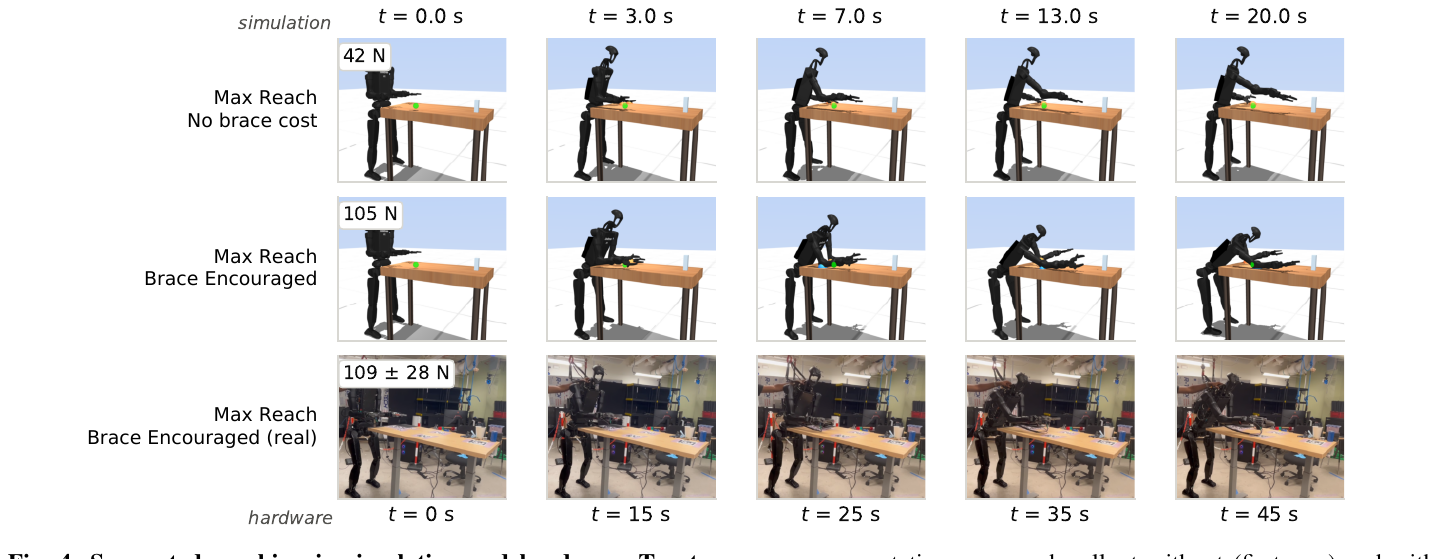
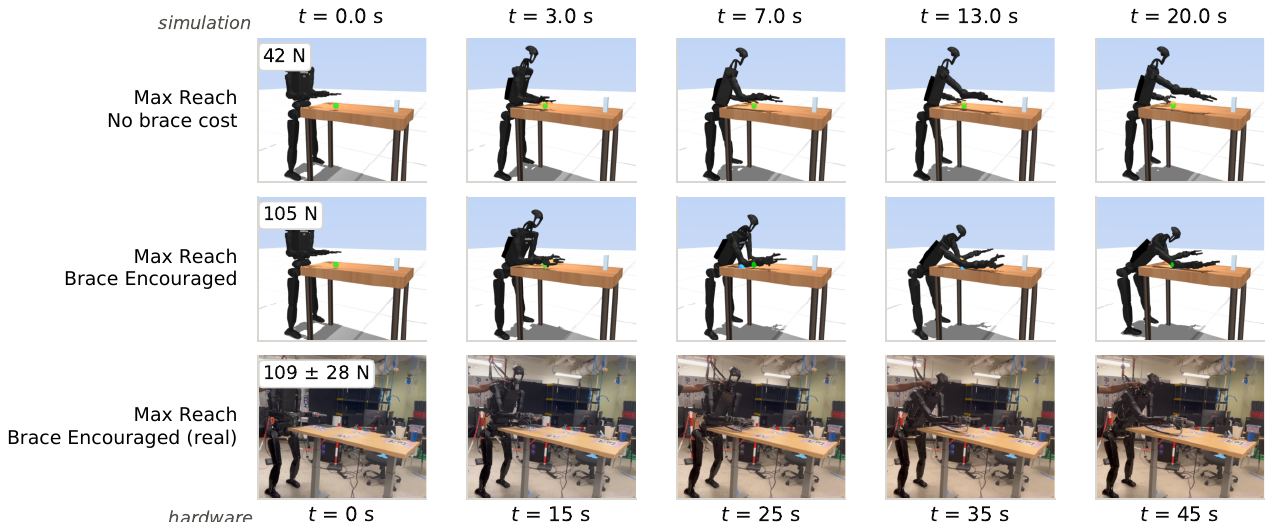
Clean strip crop; captions outside cards; drop accent bars and em dashes

diff --git a/index.html b/index.html
@@ -18,11 +18,11 @@
     <p class="eyebrow mono">Anonymous Authors &middot; Under double-blind review</p>
     <h1>Leaning Over to Reach<br>Far&#8209;Away Objects</h1>
     <p class="subtitle">Whole-body supported reaching on a humanoid: lean on the table, reach past the
-    standing workspace, push back up &mdash; with the bracing contact discovered by the controller,
+    standing workspace, push back up, with the bracing contact discovered by the controller,
     not scripted.</p>
     <nav class="links">
       <a class="btn" href="paper.pdf"><span class="btn-ico">&#9660;</span> Paper (PDF)</a>
-      <span class="btn btn-soon" title="Code released upon publication">&lt;/&gt; Code &mdash; coming soon</span>
+      <span class="btn btn-soon" title="Code released upon publication">&lt;/&gt; Code (coming soon)</span>
     </nav>
   </div>
 
@@ -34,7 +34,7 @@
         <source src="assets/lean_reach.mp4" type="video/mp4">
       </video> -->
       <img src="assets/teaser.png" alt="Unitree H1-2 humanoid leaning onto a table with its forearm while reaching across it, shown in five stages">
-      <figcaption class="mono">The Unitree H1-2 holds the braced 1&nbsp;m reach (frame&nbsp;3) &mdash; 20&nbsp;cm past its standing workspace &mdash; for over four minutes. One autonomous hardware trial, t&nbsp;=&nbsp;0&#8202;&ndash;&#8202;30&nbsp;s.</figcaption>
+      <figcaption class="mono">The Unitree H1-2 holds the braced 1&nbsp;m reach (frame&nbsp;3), 20&nbsp;cm past its standing workspace, for over four minutes. One autonomous hardware trial, t&nbsp;=&nbsp;0&#8202;&ndash;&#8202;30&nbsp;s.</figcaption>
     </figure>
   </div>
 </header>
@@ -73,7 +73,7 @@
   <em>brace objective</em> biases the optimizer toward seating the forearm on the table, but the
   realized contact mode, timing, and loading are outcomes of the rolled-out dynamics. Even with the
   brace objective removed entirely, the planner discovers light upper-body support on its own
-  (19&ndash;39&nbsp;N through the gripper) &mdash; the objective converts that tendency into a
+  (19&ndash;39&nbsp;N through the gripper). The objective converts that tendency into a
   repeatable, flat, heavily loaded forearm contact that survives real-world physics.</p>
 
   <figure class="wide">
@@ -86,8 +86,8 @@
 <section class="col">
   <h2>Measured, not just demonstrated</h2>
   <p class="serif">Across targeted-reach and max-reach tasks we measure functional reach, support
-  margin, trajectory smoothness (SPARC), high-frequency hand jitter, and bracing-arm contact force
-  &mdash; in simulation with and without the brace objective, and on hardware. Simulation and
+  margin, trajectory smoothness (SPARC), high-frequency hand jitter, and bracing-arm contact force,
+  in simulation with and without the brace objective, and on hardware. Simulation and
   hardware agree closely on the quantities that matter for stability: bracing roughly doubles the
   support margin at comparable reach (16.1&nbsp;&plusmn;&nbsp;1.1&nbsp;cm on hardware), and hardware
   brace loads (108&ndash;109&nbsp;N) sit near the top of the simulated braced range.</p>
@@ -105,7 +105,7 @@
     <div>
       <p class="serif">We command the gripper tip to a fixed Cartesian target 0.55&nbsp;m past the
       table edge and require a sustained 5&nbsp;s hold. Across 10 consecutive autonomous trials the
-      mean placement error is <b>5.3&nbsp;&plusmn;&nbsp;0.9&nbsp;cm</b> &mdash; unbiased along the
+      mean placement error is <b>5.3&nbsp;&plusmn;&nbsp;0.9&nbsp;cm</b>: unbiased along the
       reach axis (0.0&nbsp;&plusmn;&nbsp;1.7&nbsp;cm), with a repeatable lateral offset of
       3.9&nbsp;cm. The error is a stable, calibratable bias: within each hold the tip is steady to
       under a centimeter.</p>

diff --git a/style.css b/style.css
@@ -191,16 +191,6 @@ h2 {
   font-weight: 700;
   margin-bottom: 1rem;
 }
-h2::before {
-  content: "";
-  display: block;
-  width: 2.2rem;
-  height: 4px;
-  background: var(--accent);
-  border-radius: 2px;
-  margin-bottom: 0.9rem;
-}
-.fail h2::before { background: var(--fail); }
 
 section p + p { margin-top: 0.9rem; }
 
@@ -212,19 +202,17 @@ figcaption {
   margin-top: 0.55rem;
   line-height: 1.5;
 }
-.col figure.wide figcaption, .split figure figcaption, .fig-row figure figcaption {
-  color: #5A6270;
-}
 
 /* figures that breathe past the text column */
 .col figure.wide {
   width: min(var(--wide), 100vw - 2.5rem);
   margin-left: 50%;
   transform: translateX(-50%);
+}
+.col figure.wide img {
   background: var(--card);
-  border: none;
   border-radius: 8px;
-  padding: 1.1rem 1.1rem 0.9rem;
+  padding: 1.1rem;
   box-shadow: 0 14px 34px -16px rgba(0,0,0,0.6);
 }
 
@@ -235,7 +223,8 @@ figcaption {
   align-items: center;
   margin-top: 0.4rem;
 }
-.split figure { margin-top: 0; background: var(--card); border-radius: 8px; padding: 0.9rem; box-shadow: 0 14px 34px -16px rgba(0,0,0,0.6); }
+.split figure { margin-top: 0; }
+.split figure img { background: var(--card); border-radius: 8px; padding: 0.9rem; box-shadow: 0 14px 34px -16px rgba(0,0,0,0.6); }
 
 .fig-row {
   width: min(var(--wide), 100vw - 2.5rem);
